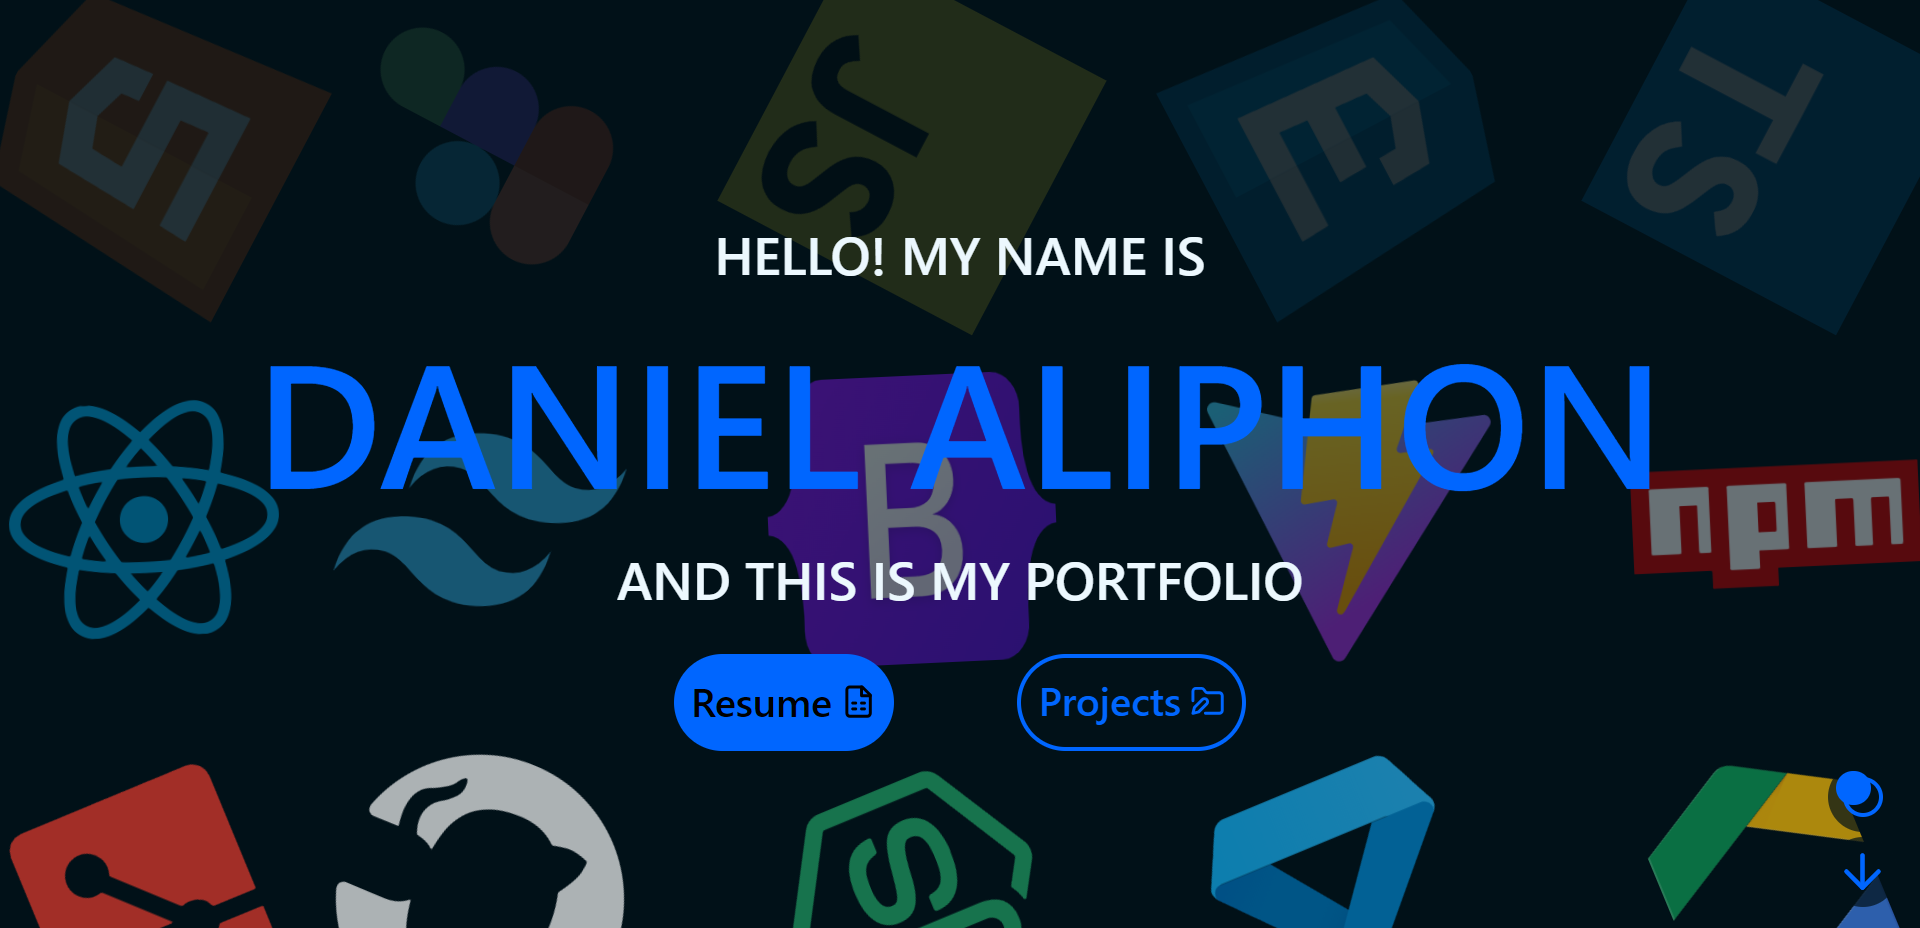
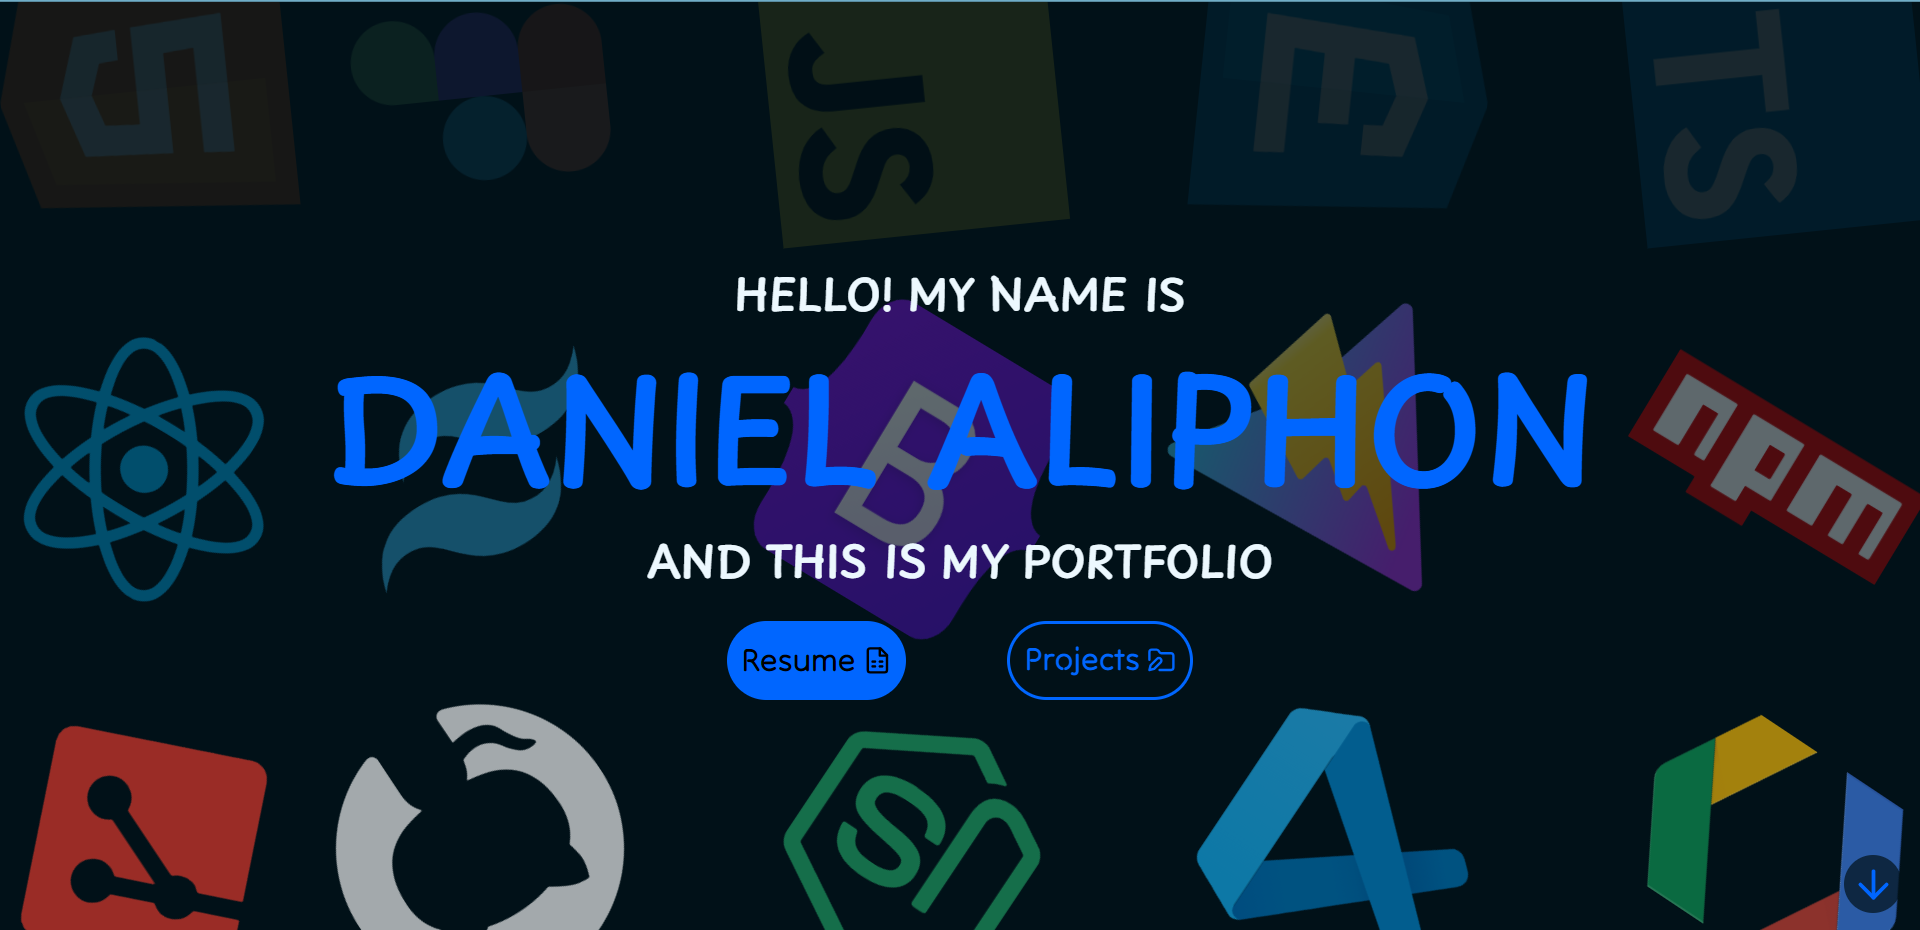
add: contact form functionality

diff --git a/src/main/Test.tsx b/src/main/Test.tsx
@@ -1,22 +1,22 @@
+import emailjs from "@emailjs/browser";
 import {
+  Heading,
   ArrowRight,
-  Facebook,
-  Github,
-  Instagram,
-  Linkedin,
-  Mail,
-  MailOpen,
   MapPin,
   Phone,
+  Mail,
+  MailOpen,
+  Linkedin,
+  Github,
+  Facebook,
+  Instagram,
 } from "lucide-react";
-import { Heading } from "../../components/Heading";
-import { Text } from "../../components/Text";
-import { SmallText } from "../../components/SmallText";
-import { CopyBtn } from "../../components/CopyBtn";
 import { useRef } from "react";
-import emailjs from "@emailjs/browser";
+import { CopyBtn } from "../components/CopyBtn";
+import { SmallText } from "../components/SmallText";
+import { Text } from "lucide-react";
 
-export const Contact = () => {
+export const Test = () => {
   const form = useRef();
 
   const ClearForm = () => {
@@ -42,6 +42,7 @@ export const Contact = () => {
       );
     e.target.reset();
   };
+
   return (
     <div
       id="Contact"
@@ -50,7 +51,7 @@ export const Contact = () => {
         <Heading className="-mb-0">
           Contact <span className="text-dark-text">Me</span>{" "}
         </Heading>
-        <Text className="mb-3 flex items-center">
+        <Text className="flex items-center">
           Send me an Email via the contact form here{" "}
           <span className="inline-flex">
             <ArrowRight size={40} />
@@ -59,10 +60,12 @@ export const Contact = () => {
 
         <div className="flex flex-col gap-4">
           {" "}
-          <SmallText>Or get hold me manually using this info:</SmallText>
+          <SmallText className="">
+            Or get hold me manually using this info:
+          </SmallText>
           <div className="group flex justify-between">
             <p className="flex gap-2">
-              <MapPin />
+              <MapPin className="" />
               South Africa, Kwa-Zulu Natal
             </p>
             <div className="invisible cursor-pointer group-hover:visible max-md:hidden">
@@ -71,7 +74,7 @@ export const Contact = () => {
           </div>
           <div className="group flex justify-between">
             <p className="flex gap-2">
-              <Phone />
+              <Phone className="" />
               +27 71 098 8863
             </p>
             <div className="invisible cursor-pointer group-hover:visible max-md:hidden">
@@ -105,10 +108,9 @@ export const Contact = () => {
             </a>
           </div>
         </div>
-
-        {/*  */}
       </div>
 
+      {/*  */}
       <form
         className="flex h-full w-full flex-col gap-3 text-lg"
         ref={form}

diff --git a/src/pages/Home/Hero.tsx b/src/pages/Home/Hero.tsx
@@ -8,12 +8,12 @@ export const Hero = () => {
     <>
       <div className="fixed z-10 w-screen">
         <div
-          className="relative bg-dark-background text-center font-semibold"
+          className="relative bg-dark-background text-center"
           data-hh>
           <div className="flex h-screen flex-col items-center justify-center gap-11 text-5xl max-sm:text-xl">
             <FloatingIcons />
 
-            <div className="flex scale-100 flex-col gap-11 max-sm:gap-1">
+            <div className="flex scale-100 flex-col gap-11 font-primary font-semibold max-sm:gap-1">
               <p className="text-dark-text">HELLO! MY NAME IS</p>
               <h1 className="text-[10rem] text-primary max-sm:text-7xl">
                 DANIEL ALIPHON
@@ -21,7 +21,7 @@ export const Hero = () => {
               <p className="text-dark-text">AND THIS IS MY PORTFOLIO</p>
             </div>
 
-            <div className="flex justify-center gap-28 max-sm:flex-col max-sm:gap-0">
+            <div className="flex justify-center gap-28 font-secondary font-medium max-sm:flex-col max-sm:gap-0">
               <button
                 className={`flex scale-100 gap-2 rounded-full bg-primary p-4 text-center text-4xl leading-normal transition-all hover:scale-105 max-sm:scale-[0.65] hover:max-sm:scale-[0.70]`}>
                 Resume
@@ -30,7 +30,7 @@ export const Hero = () => {
 
               <a href="#Projects">
                 <button
-                  className={`hover:ax-sm:scale-[0.70] flex scale-100 gap-2 rounded-full border-4 border-primary p-4 text-4xl leading-tight text-primary transition-all hover:scale-105 max-sm:scale-[0.65]`}>
+                  className={`flex scale-100 gap-2 rounded-full border-4 border-primary p-4 text-4xl leading-tight text-primary transition-all hover:scale-105 max-sm:scale-[0.65] hover:max-sm:scale-[0.70]`}>
                   <span className="mb-1">Projects</span>
                   <FolderEdit className="h-8 w-8 self-center" />
                 </button>

diff --git a/src/components/Button.tsx b/src/components/Button.tsx
@@ -8,7 +8,7 @@ export const Button = ({
   return (
     <a
       href={href}
-      className="box-border flex cursor-pointer items-center gap-2 rounded-lg border-2 border-primary px-3 py-2 duration-300 hover:bg-primary hover:text-dark-text">
+      className="box-border flex cursor-pointer items-center justify-center gap-2 rounded-lg border-2 border-primary px-3 py-2 duration-300 hover:bg-primary hover:text-dark-text">
       {children}
     </a>
   );

diff --git a/src/components/Text.tsx b/src/components/Text.tsx
@@ -7,7 +7,7 @@ export const Text = ({
 }) => {
   return (
     <p
-      className={`text-[1.875rem] text-dark-text max-md:text-2xl max-md:leading-9 max-sm:text-xl ${className}`}>
+      className={`text-[1.875rem] font-secondary  text-dark-text max-md:text-2xl max-md:leading-9 max-sm:text-xl ${className}`}>
       {children}
     </p>
   );

diff --git a/src/components/Heading.tsx b/src/components/Heading.tsx
@@ -7,7 +7,7 @@ export const Heading = ({
 }) => {
   return (
     <div
-      className={`mb-7 text-6xl font-semibold text-primary max-md:text-5xl max-sm:text-4xl ${className}`}>
+      className={`mb-7 font-primary text-6xl font-semibold text-primary max-md:text-5xl max-sm:text-4xl ${className}`}>
       {children}
     </div>
   );

diff --git a/src/components/SmallText.tsx b/src/components/SmallText.tsx
@@ -5,5 +5,7 @@ export const SmallText = ({
   children: React.ReactNode;
   className?: string;
 }) => {
-  return <div className={`text-lg ${className}`}>{children}</div>;
+  return (
+    <div className={`text-lg font-secondary ${className}`}>{children}</div>
+  );
 };
